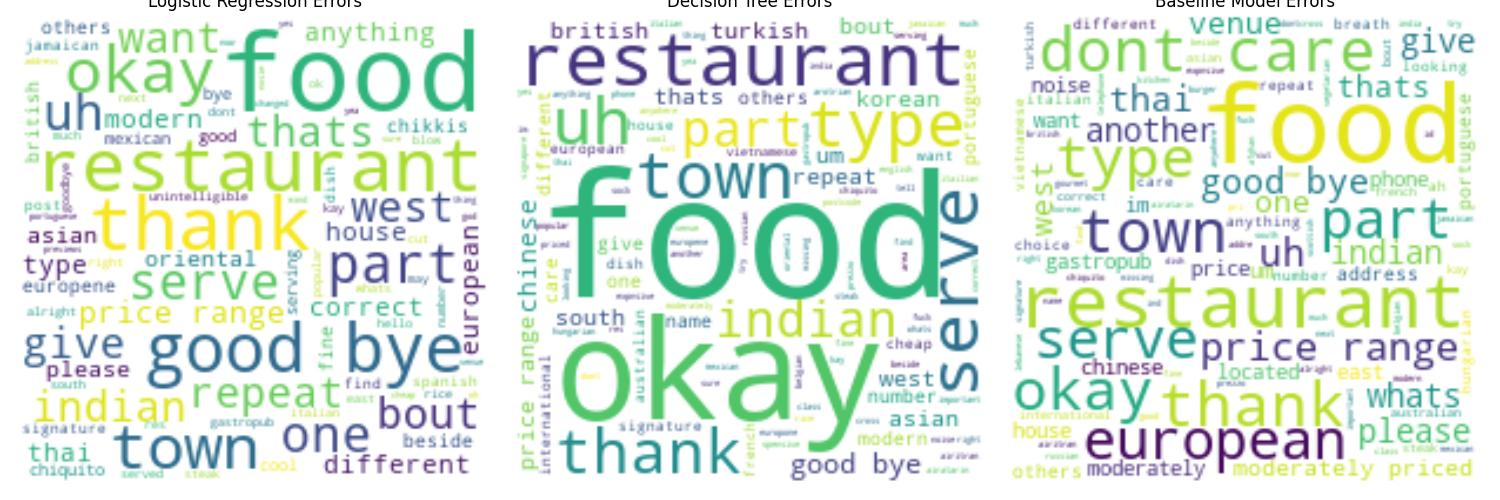
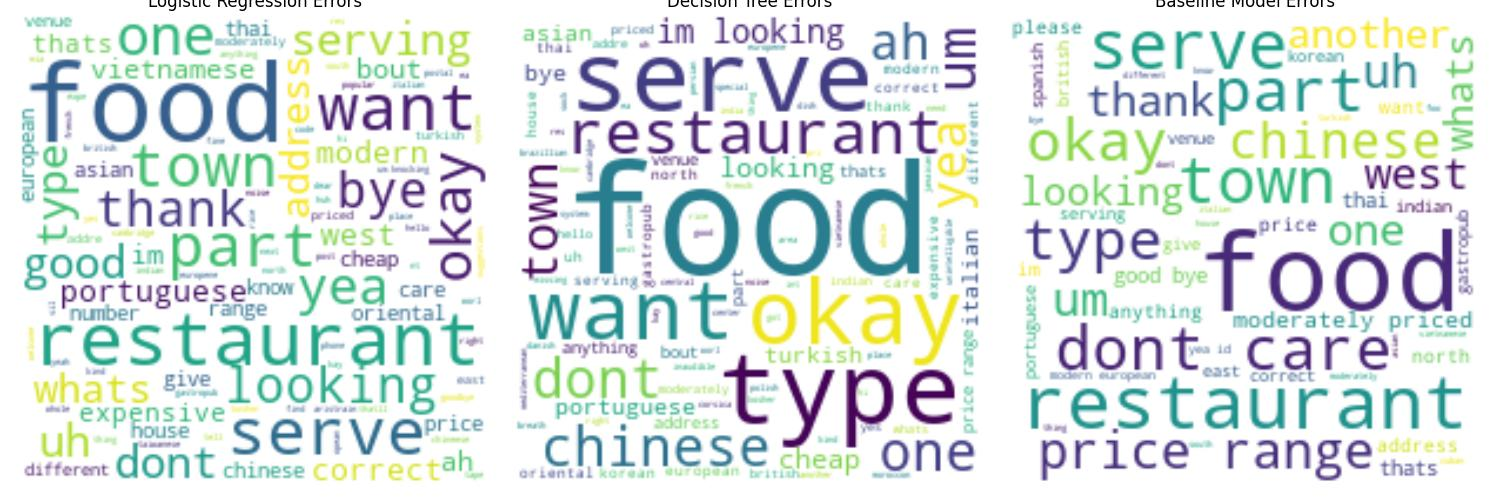
Final touch

diff --git a/main.py b/main.py
@@ -1,7 +1,7 @@
 from source.dialog_management import DialogManagement
 from source.config import load_configuration, load_file_paths_configuration
 from source.datacreator import Datacreator
-from source.ml_model import LogisticRegressionModel
+from source.ml_model import DecisionTreeModel
 
 
 filenames_config = load_file_paths_configuration("output/data/file_paths_config.json")
@@ -17,9 +17,9 @@ datacreator_with_duplicates.create_dataset()
 
 
 # fit ML Model
-logistic_regression = LogisticRegressionModel(datacreator_with_duplicates)
-logistic_regression.develop()
-logistic_regression.show_results()
+decision_tree = DecisionTreeModel(datacreator_with_duplicates)
+decision_tree.develop()
+decision_tree.show_results()
 
 
 configuration = load_configuration(filenames_config.dialog_config_path)
@@ -27,6 +27,6 @@ configuration = load_configuration(filenames_config.dialog_config_path)
 
 # create the dialog
 dialog_system = DialogManagement(
-    logistic_regression, configuration, filenames_config, debug=False
+    decision_tree, configuration, filenames_config, debug=False
 )
 dialog_system.run_dialog()

diff --git a/source/dialog_management.py b/source/dialog_management.py
@@ -26,6 +26,7 @@ class DialogManagement:
         file_paths_config: FilePathsConfig,
         debug=False,
     ) -> None:
+
         self.classifier = classifier
 
         self.fetch_keywords(file_paths_config.extended_restaurant_info_path)
@@ -86,7 +87,6 @@ def text_to_speech(message: str):
     engine.runAndWait()
 
 
-# need to add postcode?
 def pattern_match_request(data):
     """Extracts the specific request type
 
@@ -247,6 +247,8 @@ class State:
         self.user_utterance = ""
 
     def give_preferences_feedback(self):
+        """ Return the given preferences to the user so that the user is sure that the system acknowledged their request
+        """
         changed_values = {}
 
         for key in self.info.extracted_preferences:
